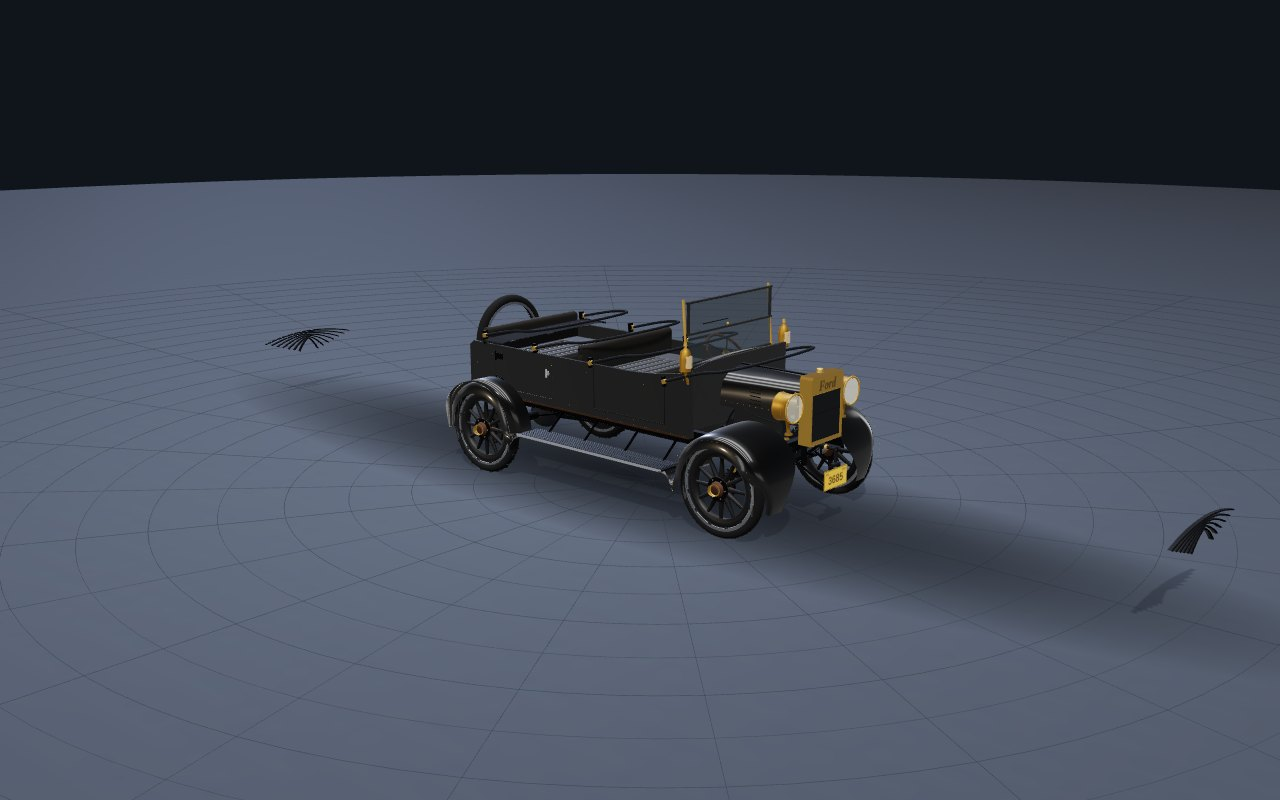
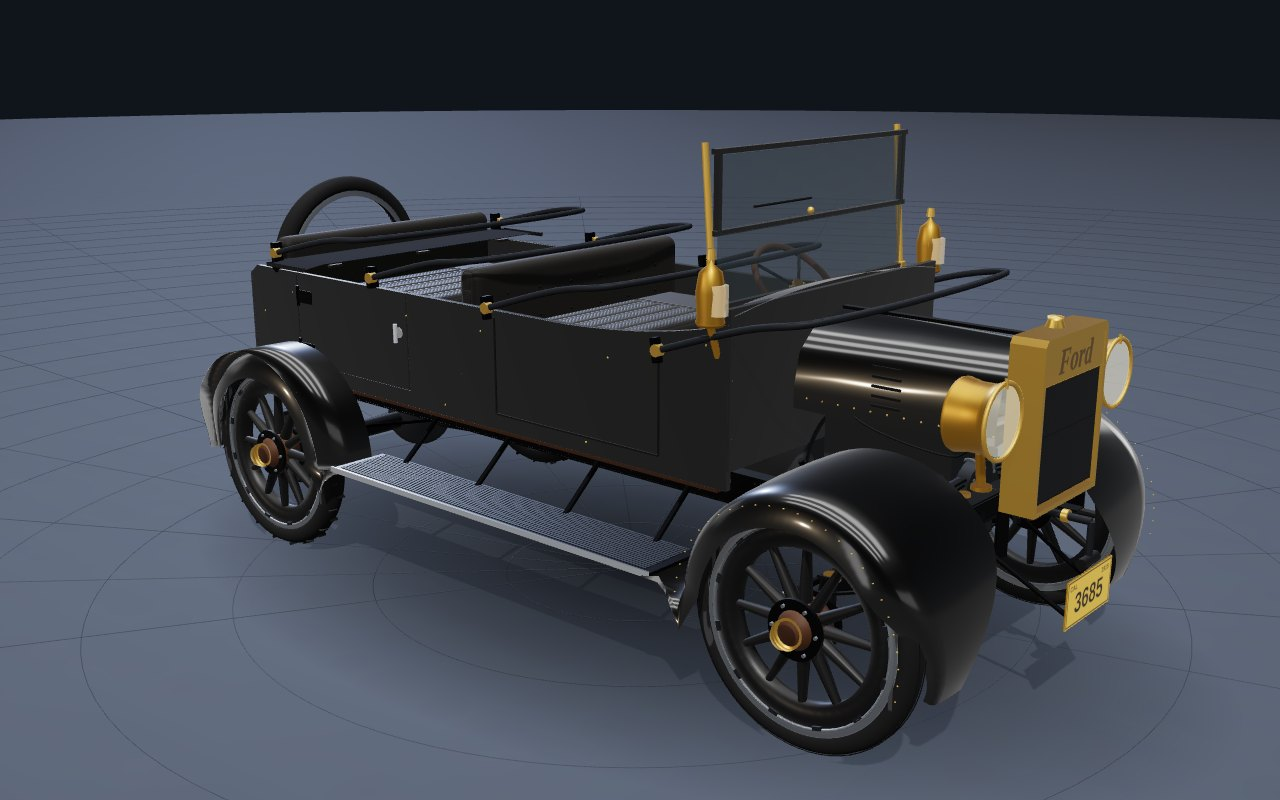
Fix #004 Model T leaf springs floating away from the car
Claude-Session: https://claude.ai/code/session_01AYAEj5S5zfL4uA1ZzoS43s

diff --git a/daily-3d-library/index.html b/daily-3d-library/index.html
@@ -63,7 +63,7 @@
   <footer>כל דגם הוא קובץ HTML אחד שנפתח ישר בדפדפן (צריך אינטרנט בשביל three.js). בכל דגם: פירוק לחלקים, חתך, רנטגן, מבטים, ופתיחת דלתות ומכסים. הקוד: <code>daily-3d-library/</code> במאגר.</footer>
 </main>
 <script>
-  const CATALOG = [{"id": "004-ford-model-t", "number": 4, "date": "2026-10-04", "dateHe": "4 באוקטובר 2026", "category": "רכבים", "title": "פורד מודל T", "titleEn": "Ford Model T Touring (1915, brass era)", "subtitle": "המכונית שהכניסה את העולם לכביש · טוריסט 1915 עם רדיאטור פליז ומנוע 20 כוח סוס", "description": "דגם תלת־ממד פרוצדורלי ומפורט של פורד מודל T בגרסת הטוריסט של 1915: רדיאטור פליז עם כיתוב Ford, פנסי פליז, גלגלי עץ בסגנון ארטילריה, מנוע ארבעה צילינדרים עם בוכנות נעות, תמסורת פלנטרית עם שלוש דוושות, מגנטו בגלגל התנופה, קפיצי עלים רוחביים וגג בד מתקפל. אפשר לפתוח את מכסה המנוע, הדלתות האחוריות, להרים את הגג, לקפל את השמשה ולהפעיל את המנוע.", "page": "models/004-ford-model-t/index.html", "thumb": "models/004-ford-model-t/thumb.jpg", "stats": {"parts": 164, "meshes": 509, "triangles": 111614, "buildMs": 217}}, {"id": "003-tesla-model-y", "number": 3, "date": "2026-10-03", "dateHe": "3 באוקטובר 2026", "category": "רכבים", "title": "טסלה מודל Y", "titleEn": "Tesla Model Y (Juniper, 2025)", "subtitle": "רכב הפנאי החשמלי הנמכר בעולם · דור ״ג׳וניפר״ 2025 עם פס האור לרוחב החזית", "description": "דגם תלת־ממד פרוצדורלי ומפורט של טסלה מודל Y החדשה: מרכב קרוסאובר עם גג זכוכית מלא, פסי אור לרוחב החזית והאחור, תא מטען קדמי במקום מנוע, סוללה שטוחה ברצפה עם מאות תאים, שני מנועים חשמליים, מתלים, בלמים, מצלמות האוטופיילוט ותא נוסעים עם מסך מרכזי. אפשר לפתוח דלתות, תא מטען קדמי ואחורי, את דלתית הטעינה ולקפל מושבים.", "page": "models/003-tesla-model-y/index.html", "thumb": "models/003-tesla-model-y/thumb.jpg", "stats": {"parts": 156, "meshes": 479, "triangles": 427465, "buildMs": 938}}, {"id": "002-merkava-mk4m", "number": 2, "date": "2026-10-03", "dateHe": "3 באוקטובר 2026", "category": "רכבים צבאיים", "title": "טנק מרכבה סימן 4M", "titleEn": "Merkava Mk 4M (IDF main battle tank)", "subtitle": "הטנק הראשי של צה״ל · מנוע מלפנים, דלת אחורית ומערכת ההגנה האקטיבית ״מעיל רוח״", "description": "דגם תלת־ממד פרוצדורלי ומפורט של טנק המרכבה סימן 4M: גוף עם מנוע ותמסורת בחזית, צריח טריז ארוך עם שריון מודולרי ווילון שרשראות, תותח חלק 120 מ״מ, מערכת Trophy (״מעיל רוח״) עם מכ״מים ומשגרים, זחלים שרצים בפועל, מתלי קפיצים חיצוניים ותא צוות עם תחמושת ודלת אחורית. אפשר לסובב צריח, להגביה תותח, לפתוח צוהרים ולהרים חצאיות כדי לראות את המתלים.", "page": "models/002-merkava-mk4m/index.html", "thumb": "models/002-merkava-mk4m/thumb.jpg", "stats": {"parts": 258, "meshes": 1225, "triangles": 400316, "buildMs": 667}}, {"id": "001-cadillac-one-the-beast", "number": 1, "date": "2026-10-01", "dateHe": "1 באוקטובר 2026", "category": "רכבים", "title": "קדילק וואן — ״החיה״", "titleEn": "Cadillac One — “The Beast” (2018)", "subtitle": "רכב השרד המשוריין של נשיא ארצות הברית · הדור של 2018", "description": "דגם תלת־ממד פרוצדורלי ומפורט של רכב השרד הנשיאותי האמריקאי: מרכב, דלתות שריון בעובי 20 ס״מ, זכוכית רב־שכבתית, מנוע דיזל V8, שלדת משאית, תא הנשיא ומערכות האבטחה. אפשר לפרק, לחתוך, לראות ברנטגן ולפתוח דלתות.", "page": "models/001-cadillac-one-the-beast/index.html", "thumb": "models/001-cadillac-one-the-beast/thumb.jpg", "stats": {"parts": 246, "meshes": 1151, "triangles": 612682, "buildMs": 1322}}];
+  const CATALOG = [{"id": "004-ford-model-t", "number": 4, "date": "2026-10-04", "dateHe": "4 באוקטובר 2026", "category": "רכבים", "title": "פורד מודל T", "titleEn": "Ford Model T Touring (1915, brass era)", "subtitle": "המכונית שהכניסה את העולם לכביש · טוריסט 1915 עם רדיאטור פליז ומנוע 20 כוח סוס", "description": "דגם תלת־ממד פרוצדורלי ומפורט של פורד מודל T בגרסת הטוריסט של 1915: רדיאטור פליז עם כיתוב Ford, פנסי פליז, גלגלי עץ בסגנון ארטילריה, מנוע ארבעה צילינדרים עם בוכנות נעות, תמסורת פלנטרית עם שלוש דוושות, מגנטו בגלגל התנופה, קפיצי עלים רוחביים וגג בד מתקפל. אפשר לפתוח את מכסה המנוע, הדלתות האחוריות, להרים את הגג, לקפל את השמשה ולהפעיל את המנוע.", "page": "models/004-ford-model-t/index.html", "thumb": "models/004-ford-model-t/thumb.jpg", "stats": {"parts": 164, "meshes": 509, "triangles": 111614, "buildMs": 257}}, {"id": "003-tesla-model-y", "number": 3, "date": "2026-10-03", "dateHe": "3 באוקטובר 2026", "category": "רכבים", "title": "טסלה מודל Y", "titleEn": "Tesla Model Y (Juniper, 2025)", "subtitle": "רכב הפנאי החשמלי הנמכר בעולם · דור ״ג׳וניפר״ 2025 עם פס האור לרוחב החזית", "description": "דגם תלת־ממד פרוצדורלי ומפורט של טסלה מודל Y החדשה: מרכב קרוסאובר עם גג זכוכית מלא, פסי אור לרוחב החזית והאחור, תא מטען קדמי במקום מנוע, סוללה שטוחה ברצפה עם מאות תאים, שני מנועים חשמליים, מתלים, בלמים, מצלמות האוטופיילוט ותא נוסעים עם מסך מרכזי. אפשר לפתוח דלתות, תא מטען קדמי ואחורי, את דלתית הטעינה ולקפל מושבים.", "page": "models/003-tesla-model-y/index.html", "thumb": "models/003-tesla-model-y/thumb.jpg", "stats": {"parts": 156, "meshes": 479, "triangles": 427465, "buildMs": 938}}, {"id": "002-merkava-mk4m", "number": 2, "date": "2026-10-03", "dateHe": "3 באוקטובר 2026", "category": "רכבים צבאיים", "title": "טנק מרכבה סימן 4M", "titleEn": "Merkava Mk 4M (IDF main battle tank)", "subtitle": "הטנק הראשי של צה״ל · מנוע מלפנים, דלת אחורית ומערכת ההגנה האקטיבית ״מעיל רוח״", "description": "דגם תלת־ממד פרוצדורלי ומפורט של טנק המרכבה סימן 4M: גוף עם מנוע ותמסורת בחזית, צריח טריז ארוך עם שריון מודולרי ווילון שרשראות, תותח חלק 120 מ״מ, מערכת Trophy (״מעיל רוח״) עם מכ״מים ומשגרים, זחלים שרצים בפועל, מתלי קפיצים חיצוניים ותא צוות עם תחמושת ודלת אחורית. אפשר לסובב צריח, להגביה תותח, לפתוח צוהרים ולהרים חצאיות כדי לראות את המתלים.", "page": "models/002-merkava-mk4m/index.html", "thumb": "models/002-merkava-mk4m/thumb.jpg", "stats": {"parts": 258, "meshes": 1225, "triangles": 400316, "buildMs": 667}}, {"id": "001-cadillac-one-the-beast", "number": 1, "date": "2026-10-01", "dateHe": "1 באוקטובר 2026", "category": "רכבים", "title": "קדילק וואן — ״החיה״", "titleEn": "Cadillac One — “The Beast” (2018)", "subtitle": "רכב השרד המשוריין של נשיא ארצות הברית · הדור של 2018", "description": "דגם תלת־ממד פרוצדורלי ומפורט של רכב השרד הנשיאותי האמריקאי: מרכב, דלתות שריון בעובי 20 ס״מ, זכוכית רב־שכבתית, מנוע דיזל V8, שלדת משאית, תא הנשיא ומערכות האבטחה. אפשר לפרק, לחתוך, לראות ברנטגן ולפתוח דלתות.", "page": "models/001-cadillac-one-the-beast/index.html", "thumb": "models/001-cadillac-one-the-beast/thumb.jpg", "stats": {"parts": 246, "meshes": 1151, "triangles": 612682, "buildMs": 1322}}];
   const QUEUE = [{"slug": "volkswagen-beetle", "he": "פולקסווגן חיפושית", "en": "Volkswagen Beetle (1963)"}, {"slug": "ferrari-f40", "he": "פרארי F40", "en": "Ferrari F40 (1987)"}, {"slug": "mercedes-300sl-gullwing", "he": "מרצדס 300SL ״כנפי שחף״", "en": "Mercedes-Benz 300 SL Gullwing (1954)"}, {"slug": "jeep-willys-mb", "he": "ג׳יפ וויליס", "en": "Willys MB Jeep (1942)"}, {"slug": "lamborghini-countach", "he": "למבורגיני קונטאש", "en": "Lamborghini Countach LP400 (1974)"}, {"slug": "porsche-911-carrera", "he": "פורשה 911 קאררה", "en": "Porsche 911 Carrera (964, 1989)"}];
   const esc = (s) => String(s ?? '').replace(/[&<>"]/g, (c) => ({ '&': '&amp;', '<': '&lt;', '>': '&gt;', '"': '&quot;' }[c]));
   document.getElementById('n').textContent = CATALOG.length;

diff --git a/daily-3d-library/models/004-ford-model-t/index.html b/daily-3d-library/models/004-ford-model-t/index.html
@@ -1154,7 +1154,7 @@ window.L3D_MODEL = {
       // springs
       const leafSpring = (parent, cx, y0, n, span, thick, name) => {
         const g = new THREE.Group(); parent.add(g);
-        for (let i = 0; i < n; i++) { const L = span * (1 - i * 0.13), pts = []; for (let k = 0; k <= 16; k++) { const u = (k / 16) * 2 - 1; pts.push(V3(cx, y0 + 0.07 * (1 - u * u) - i * thick - 0.02 * Math.abs(u) * (i * 0.5), u * L)); } mesh(G.tube(pts, thick * 0.5, 30, 5), M.metal(0x2a2c30, 0.4), { parent: g, scale: [3.2, 1, 1] }); }
+        for (let i = 0; i < n; i++) { const L = span * (1 - i * 0.13), pts = []; for (let k = 0; k <= 16; k++) { const u = (k / 16) * 2 - 1; pts.push(V3(0, y0 + 0.07 * (1 - u * u) - i * thick - 0.02 * Math.abs(u) * (i * 0.5), u * L)); } mesh(G.tube(pts, thick * 0.5, 30, 5), M.metal(0x2a2c30, 0.4), { parent: g, pos: [cx, 0, 0], scale: [3.2, 1, 1] }); }
         return g;
       };
       const fs = P(ch, 'קפיץ עלים קדמי (רוחבי)', 'Front transverse leaf spring', 'פלדת קפיצים, 6 עלים', 'קפיץ אחד לרוחב המכונית: מרכזו קבוע לקורת הרוחב, וקצותיו תלויים בשקליים על הציר. פשוט וזול — ודי נוח בכבישי עפר.');

diff --git a/daily-3d-library/models/004-ford-model-t/model.js b/daily-3d-library/models/004-ford-model-t/model.js
@@ -451,7 +451,7 @@ window.L3D_MODEL = {
       // springs
       const leafSpring = (parent, cx, y0, n, span, thick, name) => {
         const g = new THREE.Group(); parent.add(g);
-        for (let i = 0; i < n; i++) { const L = span * (1 - i * 0.13), pts = []; for (let k = 0; k <= 16; k++) { const u = (k / 16) * 2 - 1; pts.push(V3(cx, y0 + 0.07 * (1 - u * u) - i * thick - 0.02 * Math.abs(u) * (i * 0.5), u * L)); } mesh(G.tube(pts, thick * 0.5, 30, 5), M.metal(0x2a2c30, 0.4), { parent: g, scale: [3.2, 1, 1] }); }
+        for (let i = 0; i < n; i++) { const L = span * (1 - i * 0.13), pts = []; for (let k = 0; k <= 16; k++) { const u = (k / 16) * 2 - 1; pts.push(V3(0, y0 + 0.07 * (1 - u * u) - i * thick - 0.02 * Math.abs(u) * (i * 0.5), u * L)); } mesh(G.tube(pts, thick * 0.5, 30, 5), M.metal(0x2a2c30, 0.4), { parent: g, pos: [cx, 0, 0], scale: [3.2, 1, 1] }); }
         return g;
       };
       const fs = P(ch, 'קפיץ עלים קדמי (רוחבי)', 'Front transverse leaf spring', 'פלדת קפיצים, 6 עלים', 'קפיץ אחד לרוחב המכונית: מרכזו קבוע לקורת הרוחב, וקצותיו תלויים בשקליים על הציר. פשוט וזול — ודי נוח בכבישי עפר.');

diff --git a/wiki/daily-3d-library.md b/wiki/daily-3d-library.md
@@ -68,3 +68,4 @@ A library that grows by one procedurally-modelled object a day, starting with ca
   - Folded top: bows fold as a fan, canopy is scaled toward the rear pivot (collapses to a bundle) instead of a real fold.
   - Open: body is boxy (no curved panels), front doors are blind lines, engine-side layout (manifolds on the left) is reconstructed.
 - **2026-10-04, #003 round 3 (front + rear from photos):** front-view comparison against a head-on Juniper photo. Rounded superellipse nose plan with extra x-columns at the tip (`noseBreaks`, uniform steps in half-width). Lights sit on fixed section lines just under the hood lip (`lineAt(z, v)` = bisection on x at constant v), not on height-based `vAtY` (it clamps above the shoulder). Tail tapered to a 0.68 m half-width; the upper tail lamps moved onto the liftgate. Now 156 parts, ~427K triangles. Pitfalls: (1) fixed insets (`w - 0.03`, `w - 0.14`, ...) make the section cross z = 0 where `W(x)` gets small, which shows as grey patches and a streak at the nose tip, so scale insets with `clamp(w / 0.35)`; (2) a forward rake as `x - f(y)` folds the surface; (3) a light line at the frunk-lid edge v hides under the lid; (4) raycasting from a pixel is the fastest way to identify what a stray patch in a shot is. Still open: the face lacks sharp bumper corners, and the rear glass/liftgate is too wide.
+- **2026-10-04, #004 fix (user report):** two black "springs" floated ~3 m in front of and behind the car. Cause: the leaf-spring tubes were built at world x = `cx` and then scaled ×3.2 on x (to flatten the leaves), so x became 3.2·cx. Fix: build at x = 0, place with `pos`, then scale. Rule: never scale a mesh whose geometry isn't centred on its own origin.
